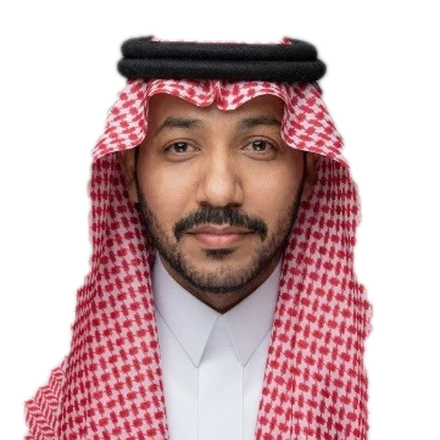
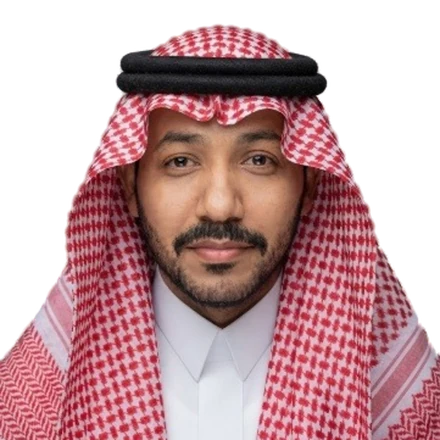
Client notes (14 Oct): first batch
1 light is the default theme
2 the floating button opens the consultation platform: «أسمعنا ما حدث بطريقتك» / «منصة الفيصل للاستشارات»
3 «من نحن» merged into «منهجيتنا»: the story now opens the methodology
4 مجموعة → إدارة (مدير/مديرة الإدارة)
5 under the microphone: «أسمعنا ما حدث بطريقتك» / «منصة الفيصل للاستشارات»
6 Ahmed Al-Zahrani re-cut from his grey backdrop (crown and shoulders intact, clean edge)
8 the scope of work rises over its card on hover
9 the new opening words of the home page
11 «+» before every figure in the record

diff --git a/concepts/shared/content.ts b/concepts/shared/content.ts
@@ -10,6 +10,8 @@ export const site = {
   description:
     'شركة الفيصل للمحاماة والاستشارات القانونية في مكة المكرمة: منظومة قانونية متكاملة في التصفيات والإفلاس، والتركات والأوقاف، والشركات والاستثمار، والأصول العقارية، والنزاعات، والتحكيم والوساطة.',
   consultUrl: 'https://uhearu.com',
+  // the consultation platform's own words (client notes: under the microphone and on the floating button)
+  platform: { line: 'أسمعنا ما حدث بطريقتك', sub: 'منصة الفيصل للاستشارات' },
   commercialRegistry: '4031239047',
 } as const;
 
@@ -42,7 +44,6 @@ export type NavItem = { label: string; href: string; page?: Page; soon?: boolean
 // `#…` items are sections of the home page; `page` items are pages of their own.
 export const nav: NavItem[] = [
   { label: 'الرئيسية', href: '#top' },
-  { label: 'من نحن', href: '#about' },
   { label: 'خبراتنا', href: '#expertise' },
   { label: 'منهجيتنا', href: '#method' },
   { label: 'فريقنا', href: '/team/', page: 'team' },
@@ -58,10 +59,10 @@ export const navHref = (item: NavItem, from: Page) => {
 
 export const hero = {
   eyebrow: site.name,
-  title: ['عندما تتعقد التفاصيل…', 'تحتاج إلى منظومة قانونية متكاملة'],
+  // client notes: the new opening words
+  title: ['خبرةٌ تفهم القضاء..', 'ورؤيةٌ تستوعب القضية'],
   body: [
-    'في شركة الفيصل، لا نتعامل مع الملف القانوني باعتباره قضية منفصلة، بل ننظر إلى الصورة كاملة؛ من الحقوق والالتزامات إلى الأصول والعقود والنزاعات والقرارات المرتبطة بها.',
-    'نجمع بين الخبرة القضائية والمعرفة القانونية والعمل المؤسسي، لنقدم حلولًا قانونية مدروسة للملفات التي تحتاج إلى أكثر من معالجة تقليدية.',
+    'نجمع بين الخبرة القضائية والتحليل القانوني المتعمق لبناء مواقف قانونية تستند إلى الوقائع والأنظمة وأدلتها، ونوازن بين الحقوق والالتزامات والآثار القانونية؛ لنقدم رؤية تحفظ مصالحكم وتدعم قراراتكم.',
   ],
   cta: 'تواصل معنا',
 };
@@ -84,7 +85,8 @@ export const stats = {
 };
 
 export const story = {
-  label: 'من نحن',
+  // client notes: «من نحن» merged into «منهجيتنا» — this section now opens the methodology
+  label: 'منهجيتنا',
   title: 'ليست كل الملفات قضية',
   body: [
     'بعض الملفات تبدأ كقضية، لكنها في الحقيقة منظومة من التفاصيل المتداخلة.',
@@ -149,7 +151,7 @@ export const team = {
   label: 'فريقنا',
   pageTitle: 'فريق الفيصل',
   description:
-    'فريق شركة الفيصل للمحاماة والاستشارات القانونية: أكثر من عشرين محاميًا ومستشارًا تحت قيادة واحدة، ومجموعات قانونية متخصصة يقود كل منها محامٍ متخصص.',
+    'فريق شركة الفيصل للمحاماة والاستشارات القانونية: أكثر من عشرين محاميًا ومستشارًا تحت قيادة واحدة، وإدارات قانونية متخصصة يقود كل منها محامٍ متخصص.',
   hero: {
     eyebrow: 'فريق الفيصل',
     title: ['خبرات متعددة…', 'تحت قيادة واحدة'],
@@ -195,15 +197,15 @@ export const team = {
     ],
   },
   groups: {
-    label: 'مجموعاتنا القانونية',
+    label: 'إداراتنا القانونية',
     title: 'لكل تخصص فريقه',
-    body: 'نعمل من خلال مجموعات قانونية متخصصة، يقود كل مجموعة محامٍ متخصص، وتضم مجموعة من المحامين والمستشارين في المجال ذاته.',
-    hint: 'تفاعل مع المجموعة أو صورة قائدها لاكتشاف نطاق العمل.',
+    body: 'نعمل من خلال إدارات قانونية متخصصة، يقود كل إدارة محامٍ متخصص، وتضم عددًا من المحامين والمستشارين في المجال ذاته.',
+    hint: 'مرّر على الإدارة أو صورة مديرها لاكتشاف نطاق العمل.',
     // Scope lists follow the docx (fuller than the PDF). «عنوان: تفاصيل» renders the title in gold.
     items: [
       {
-        name: 'مجموعة النزاعات التجارية والتصفية والإفلاس',
-        leadTitle: 'قائد المجموعة',
+        name: 'إدارة النزاعات التجارية والتصفية والإفلاس',
+        leadTitle: 'مدير الإدارة',
         leader: 'المحامي وليد بن معلي المطيري',
         photo: 'waleed',
         scope: [
@@ -219,8 +221,8 @@ export const team = {
         ],
       },
       {
-        name: 'مجموعة المنافسات والعقود الحكومية والعمالية',
-        leadTitle: 'قائد المجموعة',
+        name: 'إدارة المنافسات والعقود الحكومية والعمالية',
+        leadTitle: 'مدير الإدارة',
         leader: 'المحامي سهل بن أمين القرف',
         photo: 'sahl',
         scope: [
@@ -235,8 +237,8 @@ export const team = {
         ],
       },
       {
-        name: 'مجموعة الشركات والالتزام والحوكمة والاستثمار',
-        leadTitle: 'قائدة المجموعة',
+        name: 'إدارة الشركات والالتزام والحوكمة والاستثمار',
+        leadTitle: 'مديرة الإدارة',
         leader: 'المحامية لمى بنت عابد الزيّادي',
         photo: null,
         scope: [
@@ -251,8 +253,8 @@ export const team = {
         ],
       },
       {
-        name: 'مجموعة القضايا الجزائية والأسرية والتركات والثروات الخاصة',
-        leadTitle: 'قائد المجموعة',
+        name: 'إدارة القضايا الجزائية والأسرية والتركات والثروات الخاصة',
+        leadTitle: 'مدير الإدارة',
         leader: 'المحامي أحمد بن علي الزهراني',
         photo: 'ahmed',
         scope: [
@@ -307,11 +309,11 @@ export const contactPage = {
   },
   consult: {
     label: 'الاستشارة',
-    title: 'أسمعنا ما حدث بطريقتك..',
+    // the microphone carries «أسمعنا ما حدث بطريقتك»; the panel names the platform
+    title: 'منصة الفيصل للاستشارات',
     body: 'سنفهم الوقائع، ونحلل موقفك قانونيًا، ونوضّح لك المسار الأنسب.',
     modes: ['صوت', 'كتابة'],
     note: 'الاستشارة مدفوعة',
-    cta: 'احجز استشارة',
   },
 };
 

diff --git a/concepts/1-dark-luxury/src/styles/global.css b/concepts/1-dark-luxury/src/styles/global.css
@@ -623,6 +623,8 @@ main, .outro { position: relative; z-index: 1; }
   color: var(--ink-2);
 }
 .hero__body p:first-child { color: var(--ink); }
+/* the opening paragraph (client notes) reads as one line of thought across both columns */
+.hero__body p:only-child { grid-column: 1 / -1; max-width: 46rem; font-size: var(--fs-lead); line-height: 1.95; }
 .hero__cta {
   display: flex;
   align-items: center;
@@ -999,7 +1001,9 @@ html.fx .story__seal {
   line-height: 1.6;
   color: rgba(201, 162, 90, 0.75);
 }
-.ledger__item .odo { grid-column: 1; grid-row: 1; justify-self: start; }
+/* every figure carries a «+» (client notes) */
+.ledger__fig { grid-column: 1; grid-row: 1; justify-self: start; display: inline-flex; align-items: center; font-size: clamp(2.2rem, 1.4rem + 2vw, 3.4rem); }
+.ledger__plus { margin-right: 0.06em; font-size: 0.72em; font-weight: 800; line-height: 1; color: var(--gold); }
 .ledger__label { grid-column: 1 / -1; font-size: var(--fs-lead); font-weight: 700; line-height: 1.7; color: var(--ink-2); margin-top: 8px; }
 .ledger__measure {
   grid-column: 1 / -1;
@@ -1444,7 +1448,10 @@ html.fx .val__stage {
   line-height: 1.6;
   color: var(--gold-hi);
 }
-.voice__label::after { content: ' ←'; font-weight: 400; }
+/* the platform's words under the microphone: the line, then its name in a smaller hand */
+.voice__label { display: grid; justify-items: center; gap: 2px; text-align: center; }
+.voice__line { display: block; }
+.voice__sub { display: block; font-size: var(--fs-small); font-weight: 700; line-height: 1.6; color: var(--ink-2); }
 
 .contact {
   display: grid;
@@ -2441,7 +2448,6 @@ html.is-arriving .wa-fab { opacity: 0; transform: scale(0.6); pointer-events: no
 @media (max-width: 760px) {
   .wa-fab { left: max(16px, env(safe-area-inset-left)); bottom: max(16px, env(safe-area-inset-bottom)); }
   .wa-fab__ring { width: 54px; height: 54px; }
-  .wa-fab__label { display: none; }
   .outro { padding-bottom: calc(86px + env(safe-area-inset-bottom)); }
 }
 [data-theme='light'] .wa-fab__label { color: var(--ink); background: rgba(251, 248, 242, 0.92); box-shadow: inset 0 0 0 1px rgba(148, 106, 31, 0.45), 0 10px 30px -14px rgba(70, 50, 20, 0.4); }
@@ -2578,4 +2584,36 @@ html.is-arriving .wa-fab { opacity: 0; transform: scale(0.6); pointer-events: no
   .cf__open,
   .outro__web { display: inline-flex; align-items: center; min-height: 44px; }
   .cc__phones { gap: 0; }
+}
+/* =========================================================================
+   Client notes (14 Oct): the platform button, the scope over its card
+   ========================================================================= */
+/* the floating button's words: the line, and the platform's name beneath it */
+.wa-fab__label { display: grid; gap: 1px; padding: 9px 18px 10px; border-radius: 18px; text-align: right; }
+.wa-fab__line { font-size: var(--fs-small); font-weight: 800; line-height: 1.5; color: var(--ink); }
+.wa-fab__sub { font-size: var(--fs-label); font-weight: 700; line-height: 1.5; color: var(--gold-hi); }
+/* it says its words once on arrival, then folds away until hovered */
+.wa-fab.is-greeting .wa-fab__label { opacity: 1; transform: translate(0, -50%); }
+@media (max-width: 760px) {
+  .wa-fab__label { padding: 7px 14px 8px; }
+  .wa-fab__line { font-size: 0.8125rem; }
+  .wa-fab__sub { font-size: 0.75rem; }
+}
+
+/* the scope of work rises over the card itself (a pointer that hovers) */
+.gc__pn { display: none; }
+@media (min-width: 861px) and (hover: hover) and (pointer: fine) {
+  .gc__drop { top: 0; left: 0; right: 0; min-height: 100%; padding-top: 0; display: flex; }
+  .gc__thread { display: none; }
+  .gc__panel { flex: 1; padding: 26px 22px 14px; border-radius: 28px; }
+  .gc__pn { display: block; padding-bottom: 10px; font-size: 1.02rem; font-weight: 800; line-height: 1.6; color: var(--ink); text-wrap: balance; }
+  .gc__k { padding-bottom: 10px; }
+  .gc__scope li { padding: 8px 0; font-size: 0.9rem; line-height: 1.75; }
+}
+/* touch screens wider than a phone (tablets) use the same in-flow list as phones */
+@media (min-width: 861px) and (hover: none) {
+  .gc__drop { position: static; height: 0; overflow: hidden; padding-top: 0; visibility: hidden; }
+  .gc.is-open .gc__drop { height: auto; visibility: visible; }
+  .gc__thread { display: none; }
+  .gc__panel { margin-top: 10px; }
 }

diff --git a/concepts/1-dark-luxury/src/scripts/team.ts b/concepts/1-dark-luxury/src/scripts/team.ts
@@ -50,7 +50,7 @@ export function createTeamPage(ctx: Ctx) {
       open = i;
       const c = cards[i];
       const drop = $('.gc__drop', c);
-      const items = $$('.gc__scope li, .gc__k', c);
+      const items = $$('.gc__pn, .gc__k, .gc__scope li', c);
       c.classList.add('is-open');
       list.classList.add('has-open');
       $('.gc__trigger', c).setAttribute('aria-expanded', 'true');
@@ -59,11 +59,12 @@ export function createTeamPage(ctx: Ctx) {
       if (!animate) { gsap.set(drop, { clearProps: 'all' }); return; }
       if (overlay()) {
         gsap.fromTo($('.gc__thread', c), { scaleY: 0 }, { scaleY: 1, duration: 0.35, ease: EASE.io });
-        gsap.fromTo(drop, { clipPath: 'inset(0% 0% 100% 0%)' }, { clipPath: 'inset(0% 0% 0% 0%)', duration: 0.7, ease: EASE.io, delay: 0.12 });
+        // the scope rises over the card itself, like a page drawn up over the portrait
+        gsap.fromTo(drop, { clipPath: 'inset(100% 0% 0% 0% round 28px)' }, { clipPath: 'inset(0% 0% 0% 0% round 28px)', duration: 0.65, ease: EASE.io });
       } else {
         gsap.fromTo(drop, { height: 0 }, { height: 'auto', duration: 0.6, ease: EASE.io, onComplete: () => { gsap.set(drop, { clearProps: 'height' }); } });
       }
-      gsap.fromTo(items, { opacity: 0, y: 10 }, { opacity: 1, y: 0, duration: 0.7, ease: EASE.out, stagger: 0.04, delay: overlay() ? 0.3 : 0.15 });
+      gsap.fromTo(items, { opacity: 0, y: 10 }, { opacity: 1, y: 0, duration: 0.7, ease: EASE.out, stagger: 0.035, delay: overlay() ? 0.22 : 0.15 });
     };
     function hide(i: number) {
       const c = cards[i];
@@ -74,7 +75,7 @@ export function createTeamPage(ctx: Ctx) {
       gsap.killTweensOf(drop);
       const done = () => { if (open !== i) { c.classList.remove('is-open'); gsap.set(drop, { clearProps: 'clipPath,height' }); } };
       if (!animate) { done(); return; }
-      if (overlay()) gsap.to(drop, { clipPath: 'inset(0% 0% 100% 0%)', duration: 0.38, ease: 'power2.in', onComplete: done });
+      if (overlay()) gsap.to(drop, { clipPath: 'inset(100% 0% 0% 0% round 28px)', duration: 0.42, ease: 'power2.in', onComplete: done });
       else gsap.to(drop, { height: 0, duration: 0.42, ease: EASE.io, onComplete: done });
     }
 

diff --git a/concepts/1-dark-luxury/src/scripts/main.ts b/concepts/1-dark-luxury/src/scripts/main.ts
@@ -133,8 +133,8 @@ updateHeader();
 
 // Home: the active item follows the section in view. Other pages mark their own item in the markup.
 if (PAGE === 'home') {
-  const navTargets = ['#top', '#about', '#expertise', '#method', '#contact'];
-  const sectionFor: Record<string, string> = { numbers: '#top', statement: '#method', values: '#method', outro: '#contact' };
+  const navTargets = ['#top', '#expertise', '#method', '#contact'];
+  const sectionFor: Record<string, string> = { numbers: '#top', story: '#method', method: '#method', statement: '#method', values: '#method', outro: '#contact' };
   const setActiveNav = () => {
     const s = activeScene();
     if (!s) return;
@@ -429,6 +429,25 @@ function setupContactForm() {
 }
 if (PAGE === 'contact') setupContactForm();
 
+/* The platform button says its words once the page has opened, then folds them away. */
+{
+  const fab = document.querySelector<HTMLElement>('.wa-fab');
+  if (fab) {
+    let tries = 0;
+    const greet = () => {
+      if (root.classList.contains('is-intro') || root.classList.contains('is-arriving')) {
+        if (++tries < 60) setTimeout(greet, 300);
+        return;
+      }
+      setTimeout(() => {
+        fab.classList.add('is-greeting');
+        setTimeout(() => fab.classList.remove('is-greeting'), 5200);
+      }, 900);
+    };
+    greet();
+  }
+}
+
 const team = createTeamPage({
   FX,
   finePointer,
@@ -446,9 +465,10 @@ const team = createTeamPage({
 if (FX) {
   document.fonts.ready.then(() => {
     if (PAGE === 'home') {
-      setupStory();
+      // pinned scenes are set up in page order, so each one's start includes the pins above it
       setupNumbers();
       setupExpertise();
+      setupStory();
       setupMethod();
       setupStatement();
       setupValues();

diff --git a/concepts/1-dark-luxury/src/scripts/gl.ts b/concepts/1-dark-luxury/src/scripts/gl.ts
@@ -92,7 +92,7 @@ export function createGL(canvas: HTMLCanvasElement) {
   const u = (n: string) => gl.getUniformLocation(prog, n);
   const U = { res: u('uRes'), time: u('uTime'), light: u('uLight'), li: u('uLightI'), lr: u('uLightR'), dim: u('uDim'), theme: u('uTheme') };
 
-  const state: GLState = { lx: 0.5, ly: 0.45, li: 0, lr: 0.3, dim: 0, theme: document.documentElement.dataset.theme === 'light' ? 1 : 0 };
+  const state: GLState = { lx: 0.5, ly: 0.45, li: 0, lr: 0.3, dim: 0, theme: document.documentElement.dataset.theme === 'dark' ? 0 : 1 };
 
   // The shader is cheap; render at CSS-pixel resolution (DPR capped at 1) so falloffs stay crisp.
   const resize = () => {
